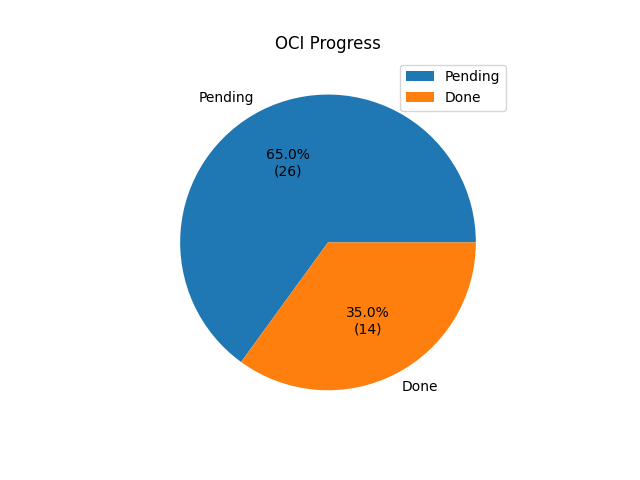
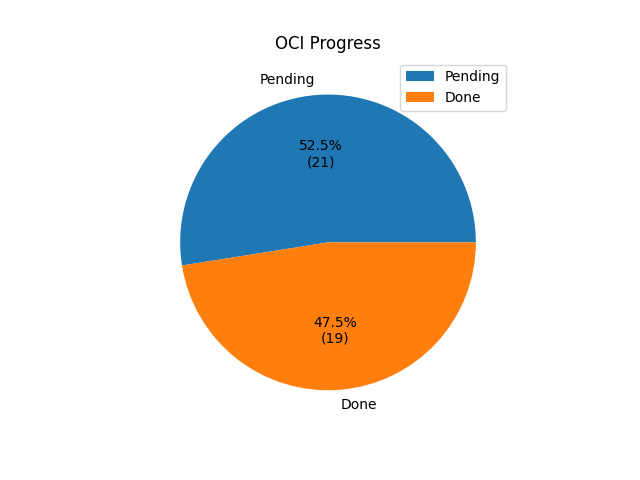
Commit from GitHub Actions (Export Conversion Rules)

diff --git a/conversion_rules_export/markdown/oci.md b/conversion_rules_export/markdown/oci.md
@@ -3,7 +3,6 @@
 | BilledCurrency             |                0 | Not Defined                 | Not Defined          | Not Defined         | Not Defined            |
 | BillingAccountName         |                0 | Not Defined                 | Not Defined          | Not Defined         | Not Defined            |
 | ChargeCategory             |                0 | Not Defined                 | Not Defined          | Not Defined         | Not Defined            |
-| ChargeDescription          |                0 | Not Defined                 | Not Defined          | Not Defined         | Not Defined            |
 | ChargeFrequency            |                0 | Not Defined                 | Not Defined          | Not Defined         | Not Defined            |
 | ChargeSubcategory          |                0 | Not Defined                 | Not Defined          | Not Defined         | Not Defined            |
 | ChargeType                 |                0 | Not Defined                 | Not Defined          | Not Defined         | Not Defined            |
@@ -16,27 +15,28 @@
 | ListUnitPrice              |                0 | Not Defined                 | Not Defined          | Not Defined         | Not Defined            |
 | PricingCategory            |                0 | Not Defined                 | Not Defined          | Not Defined         | Not Defined            |
 | PricingQuantity            |                0 | Not Defined                 | Not Defined          | Not Defined         | Not Defined            |
-| PricingUnit                |                0 | Not Defined                 | Not Defined          | Not Defined         | Not Defined            |
 | Publisher                  |                0 | Not Defined                 | Not Defined          | Not Defined         | Not Defined            |
 | ResourceName               |                0 | Not Defined                 | Not Defined          | Not Defined         | Not Defined            |
 | ResourceType               |                0 | Not Defined                 | Not Defined          | Not Defined         | Not Defined            |
 | ServiceCategory            |                0 | Not Defined                 | Not Defined          | Not Defined         | Not Defined            |
-| SkuId                      |                0 | Not Defined                 | Not Defined          | Not Defined         | Not Defined            |
 | SkuPriceId                 |                0 | Not Defined                 | Not Defined          | Not Defined         | Not Defined            |
 | SubAccountName             |                0 | Not Defined                 | Not Defined          | Not Defined         | Not Defined            |
-| UsageQuantity              |                0 | Not Defined                 | Not Defined          | Not Defined         | Not Defined            |
-| UsageUnit                  |                0 | Not Defined                 | Not Defined          | Not Defined         | Not Defined            |
 | AvailabilityZone           |                1 | product/availabilityDomain  | Not Defined          | RENAME_COLUMN       |                        |
 | BilledCost                 |                1 | cost/myCostOverage          | Not Defined          | RENAME_COLUMN       |                        |
 | BillingAccountId           |                1 | cost/subscriptionId         | Not Defined          | RENAME_COLUMN       |                        |
 | BillingCurrency            |                1 | cost/currencyCode           | Not Defined          | RENAME_COLUMN       |                        |
 | BillingPeriodEnd           |                1 | lineItem/intervalUsageEnd   | datetime             | MONTH_END           |                        |
 | BillingPeriodStart         |                1 | lineItem/intervalUsageStart | datetime             | MONTH_START         |                        |
+| ChargeDescription          |                1 | product/Description         | Not Defined          | RENAME_COLUMN       |                        |
 | ChargePeriodEnd            |                1 | lineItem/intervalUsageEnd   | datetime             | RENAME_COLUMN       |                        |
 | ChargePeriodStart          |                1 | lineItem/intervalUsageStart | datetime             | RENAME_COLUMN       |                        |
 | EffectiveCost              |                1 | cost/myCost                 | Not Defined          | RENAME_COLUMN       |                        |
+| PricingUnit                |                1 | cost/skuUnitDescription     | Not Defined          | RENAME_COLUMN       |                        |
 | Provider                   |                1 | NA                          | Not Defined          | ASSIGN_STATIC_VALUE | static_value: Oracle   |
 | Region                     |                1 | product/region              | Not Defined          | RENAME_COLUMN       |                        |
 | ResourceId                 |                1 | product/resourceId          | Not Defined          | RENAME_COLUMN       |                        |
 | ServiceName                |                1 | product/service             | Not Defined          | RENAME_COLUMN       |                        |
+| SkuId                      |                1 | cost/productSku             | Not Defined          | RENAME_COLUMN       |                        |
 | SubAccountId               |                1 | lineItem/tenantId           | Not Defined          | RENAME_COLUMN       |                        |
+| UsageQuantity              |                1 | usage/billedQuantity        | Not Defined          | RENAME_COLUMN       |                        |
+| UsageUnit                  |                1 | cost/skuUnitDescription     | Not Defined          | RENAME_COLUMN       |                        |
